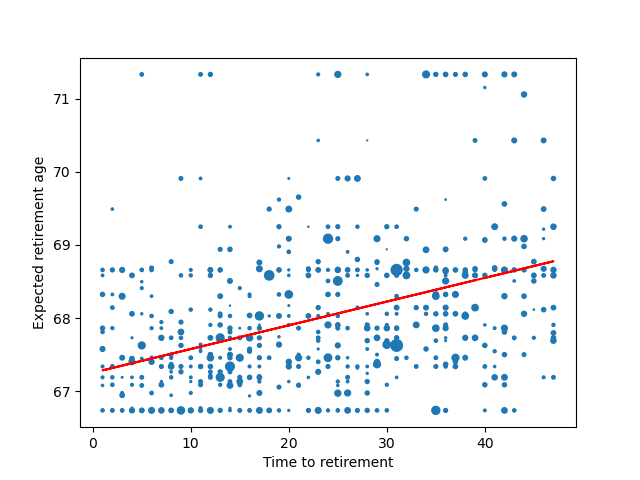
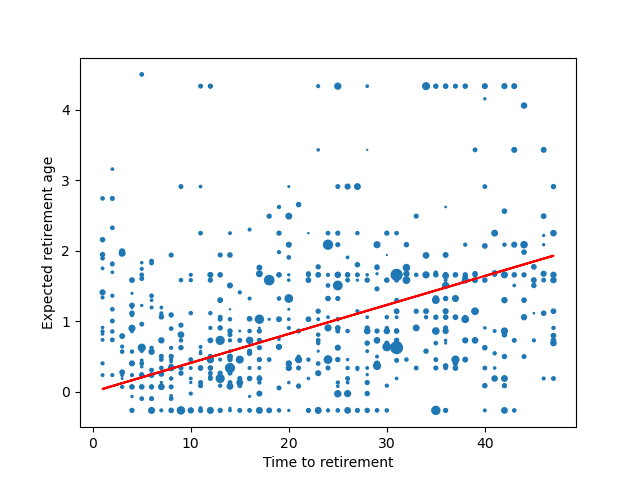
fixed SRA estimation

diff --git a/src/process_data/process_data.py b/src/process_data/process_data.py
@@ -1,72 +1,51 @@
 # Gathers everything necessary for structural model estimation.
 # This script executes the following steps:
-# 0. Set paths and parameters.
-# 1. Estimates policy expectation process parameters.
-# 2. Estimates wage equation parameters.
-# 3. Get choice and other state variables (lagged choice, policy state, retirement age id, experience, wealth) from SOEP core and SOEP RV VSKT.
+# Set paths and optionns.
+# Get choice and other state variables (lagged choice, policy state, retirement age id, experience, wealth) from SOEP core and SOEP RV VSKT.
+# Estimates policy expectation process parameters.
+# Estimates wage equation parameters.
 # locations:
 # dependencies: original data saved on local machines, functions for steps 0-3 in src folder
 # output: data (decisions and outside_parameters) saved in output folder
 # %%
 # Step 0: Set paths and parameters
 # ----------------------------------------------------------------------------------------------
-USER = "max"
+USER = "bruno" # "bruno" or "max"
 LOAD_DATA = False  # if True, load data from pickle files instead of generating it
 
-# Set data paths according to user.
-if USER == "bruno":
-    data_path = "C:/Users/bruno/papers/soep/"
-elif USER == "max":
-    data_path = "/home/maxbl/Uni/pol_uncetainty/data/"
-else:
-    raise ValueError(
-        "Please specify valid USER in " "MASTER_prepare_structural_model.py."
-    )
-
+# Set data paths according to user. 
 import os
-import yaml
-
-analysis_path = os.path.abspath(os.getcwd() + "/../../") + "/"
-
 import sys
-
+analysis_path = os.path.abspath(os.getcwd() + "/../../") + "/"
 sys.path.insert(0, analysis_path + "src/")
 
-# Set paths
-paths_dict = {
-    "soep_c38": data_path + "soep38",
-    "soep_rv": data_path + "soep_rv",
-    "soep_is": data_path + "soep_is_2022/dataset_main_SOEP_IS.dta",
-    "project_path": analysis_path,
-    "output_path": analysis_path + "output/",
-}
+from process_data.steps.set_paths import create_path_dict
+paths_dict = create_path_dict(USER, analysis_path)
 
 # Load options and generate auxiliary options
+import yaml
 from derive_specs import generate_derived_specs
+from process_data.steps import set_paths  # Add the missing import statement
 
 project_specs = yaml.safe_load(open(analysis_path + "src/spec.yaml"))
 project_specs = generate_derived_specs(project_specs)
 
 # %%
-# Step 1: Get choice and state variables from policy_step_sizeSOEP core and SOEP RV
-# VSKT
+# Step 1: Get choice and state variables from policy_step_sizeSOEP core and SOEP RV VSKT
 # ----------------------------------------------------------------------------------------------
 from process_data.steps.gather_decision_data import gather_decision_data
 
 dec_data = gather_decision_data(
     paths_dict,
     project_specs,
-    load_data=LOAD_DATA,
+    load_data=True,
 )
-
-# %%
-
 
 # %%
 # Step 2: Estimates policy expectation process parameters
 # Step 2a: Estimate for each individual truncated normals
 # --------------------------------------------------------------------------------------
-from process_data.steps.est_ret_age_expectations import estimate_truncated_normal
+from process_data.steps.est_SRA_expectations import estimate_truncated_normal
 
 df_estimated_ret_age_expectations = estimate_truncated_normal(
     paths_dict, project_specs, load_data=True
@@ -74,9 +53,9 @@ df_estimated_ret_age_expectations = estimate_truncated_normal(
 
 # %%
 #
-# Step 2b: Estimate regressions and create plots
+# Step 2b: Estimate SRA random walk
 # ---------------------------------------------------------------------------------------
-from process_data.steps.regression_and_plots import (
+from process_data.steps.est_SRA_random_walk import (
     gen_exp_val_params_and_plot,
     gen_var_params_and_plot,
 )
@@ -92,7 +71,7 @@ policy_expectation_sigma_sq = gen_var_params_and_plot(
 # %%
 
 # Step 3: Estimates wage equation parameters
-# ----------------------------------------------------------------------------------------------
+# ---------------------------------------------------------------------------------------
 from process_data.steps.est_wage_equation import estimate_wage_parameters
 
 wage_params = estimate_wage_parameters(paths_dict, project_specs, load_data=LOAD_DATA)

diff --git a/src/process_data/steps/est_SRA_random_walk.py b/src/process_data/steps/est_SRA_random_walk.py
@@ -1,30 +1,36 @@
 import numpy as np
 from matplotlib import pyplot as plt
 from statsmodels import api as sm
-
+from process_data.steps.gather_decision_data import create_policy_state
 
 def gen_exp_val_params_and_plot(paths, df, load_data=False):
     output_file = paths["project_path"] + "output/exp_val_params.txt"
     x_var = "time_to_ret"
-    y_var = "ex_val"
     weights = "fweights"
+    # calculate current policy state for each observation
+    df["current_SRA"] = create_policy_state(df["birth_year"])
+    df["exp_SRA_increase"] = df["ex_val"] - df["current_SRA"]
+    y_var = "exp_SRA_increase"
+    #y_var = "ex_val"
 
     if load_data:
         return np.loadtxt(output_file)
 
-    exog_1 = np.array([np.ones(df.shape[0]), df[x_var].values]).T
+    #exog_1 = np.array([np.ones(df.shape[0]), df[x_var].values]).T
+
     model = sm.WLS(
-        exog=exog_1,
+        #exog=exog_1,
+        exog=df[x_var].values,
         endog=df[y_var].values,
         weights=df[weights].values,
     )
     print(model.fit().summary())
-    coefficients = model.fit().params
+    alpha_hat = model.fit().params
     fig, ax = plt.subplots()
     ax.scatter(df[x_var], df[y_var], s=(df[weights] / df[weights].sum()) * 5000)
     ax.plot(
         df[x_var],
-        coefficients[0] + coefficients[1] * df[x_var],
+        alpha_hat[0] * df[x_var],
         "r",
     )
     ax.set_xlabel("Time to retirement")
@@ -34,12 +40,9 @@ def gen_exp_val_params_and_plot(paths, df, load_data=False):
     plt.savefig(paths["project_path"] + "output/exp_val_plot.png")
     plt.show()
     print(
-        f"Estimated regression equation: E[ret age] = {coefficients[0]} + "
-        f"{coefficients[1]} * (Time to retirement)"
+        f"Estimated regression equation: E[ret age change] = "
+        f"{alpha_hat[0]} * (Time to retirement)"
     )
-
-    # save relevant parameter
-    alpha_hat = coefficients[1:]
 
 
     np.savetxt(output_file, alpha_hat, delimiter=",")
@@ -63,12 +66,12 @@ def gen_var_params_and_plot(paths, df, load_data=False):
     sigma_sq_hat = (sigma_sq_hat * df["fweights"]).sum() / df["fweights"].sum()
     sigma_sq_hat = np.array([sigma_sq_hat])
 
-    # this is a mostly useless regression that is only used to generate a plot to 
-    # illustrate why we need to improve the model
+    # regress variance on time to retirement without constant
 
-    exog_1 = np.array([np.ones(df.shape[0]), df[x_var].values]).T
+    #exog_1 = np.array([np.ones(df.shape[0]), df[x_var].values]).T
+        
     model = sm.WLS(
-        exog=exog_1,
+        exog=df[x_var].values,
         endog=df[y_var].values,
         weights=df[weights].values,
     )
@@ -78,7 +81,7 @@ def gen_var_params_and_plot(paths, df, load_data=False):
     ax.scatter(df[x_var], df[y_var], s=(df[weights] / df[weights].sum()) * 5000)
     ax.plot(
         df[x_var],
-        coefficients[0] + coefficients[1] * df[x_var],
+        coefficients[0] * df[x_var],
         "r",
     )
     ax.set_xlabel("Time to retirement")

diff --git a/src/process_data/steps/set_paths.py b/src/process_data/steps/set_paths.py
@@ -1,0 +1,20 @@
+
+def create_path_dict(user, analysis_path):
+    if user == "bruno":
+        data_path = "C:/Users/bruno/papers/soep/"
+    elif user == "max":
+        data_path = "/home/maxbl/Uni/pol_uncetainty/data/"
+    else:
+        raise ValueError(
+            "Please specify valid USER in " "MASTER_prepare_structural_model.py."
+        )
+
+    # Set paths
+    paths_dict = {
+        "soep_c38": data_path + "soep38",
+        "soep_rv": data_path + "soep_rv",
+        "soep_is": data_path + "soep_is_2022/dataset_main_SOEP_IS.dta",
+        "project_path": analysis_path,
+        "output_path": analysis_path + "output/",
+    }
+    return paths_dict

diff --git a/src/process_data/steps/gather_decision_data.py b/src/process_data/steps/gather_decision_data.py
@@ -288,7 +288,7 @@ def modify_policy_state(policy_states, options):
 def enforce_model_work_and_ret_conditions(
     merged_data, min_ret_age, max_ret_age, start_age
 ):
-    """This function filters the choice data according to the model setup."""
+    """This function filters the choice data abirth_yearccording to the model setup."""
     # Filter out people who are retired before min_ret_age
     merged_data = merged_data[
         ~((merged_data["choice"] == 2) & (merged_data["age"] < min_ret_age))

diff --git a/src/derive_specs.py b/src/derive_specs.py
@@ -3,7 +3,7 @@ from process_data.steps.est_wage_equation import (
     estimate_wage_parameters,
 )
 from process_data.steps.gather_decision_data import gather_decision_data
-from process_data.steps.regression_and_plots import gen_exp_val_params_and_plot
+from process_data.steps.est_SRA_random_walk import gen_exp_val_params_and_plot
 
 
 def generate_derived_specs(options):
